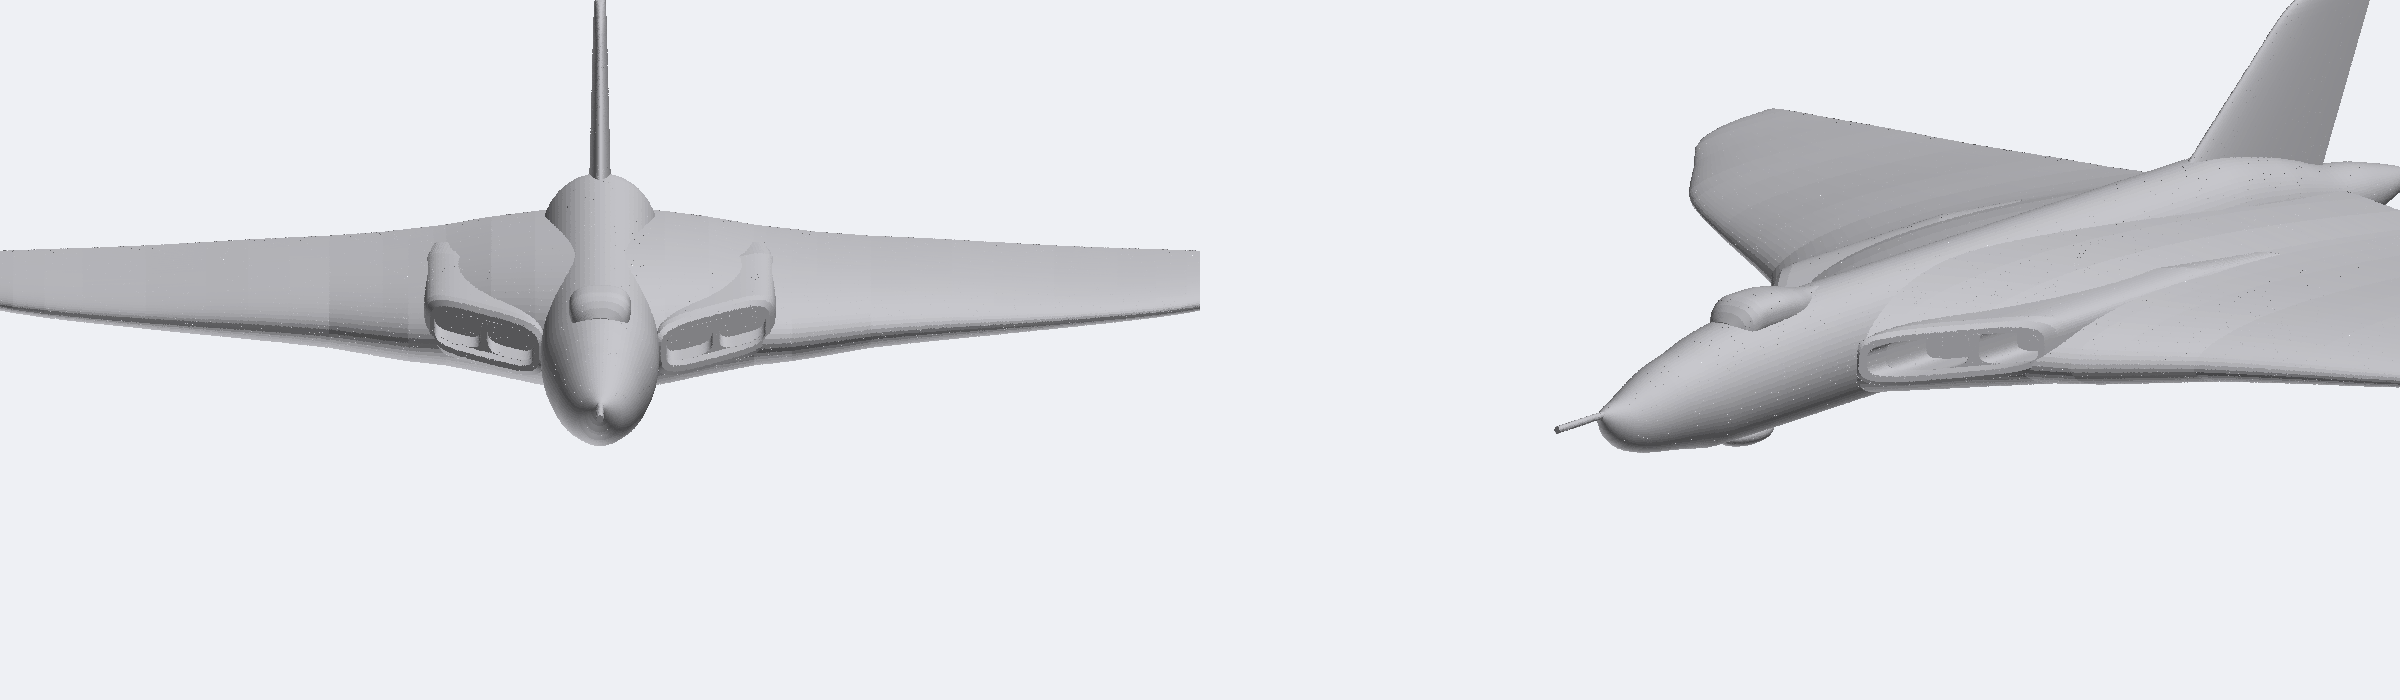
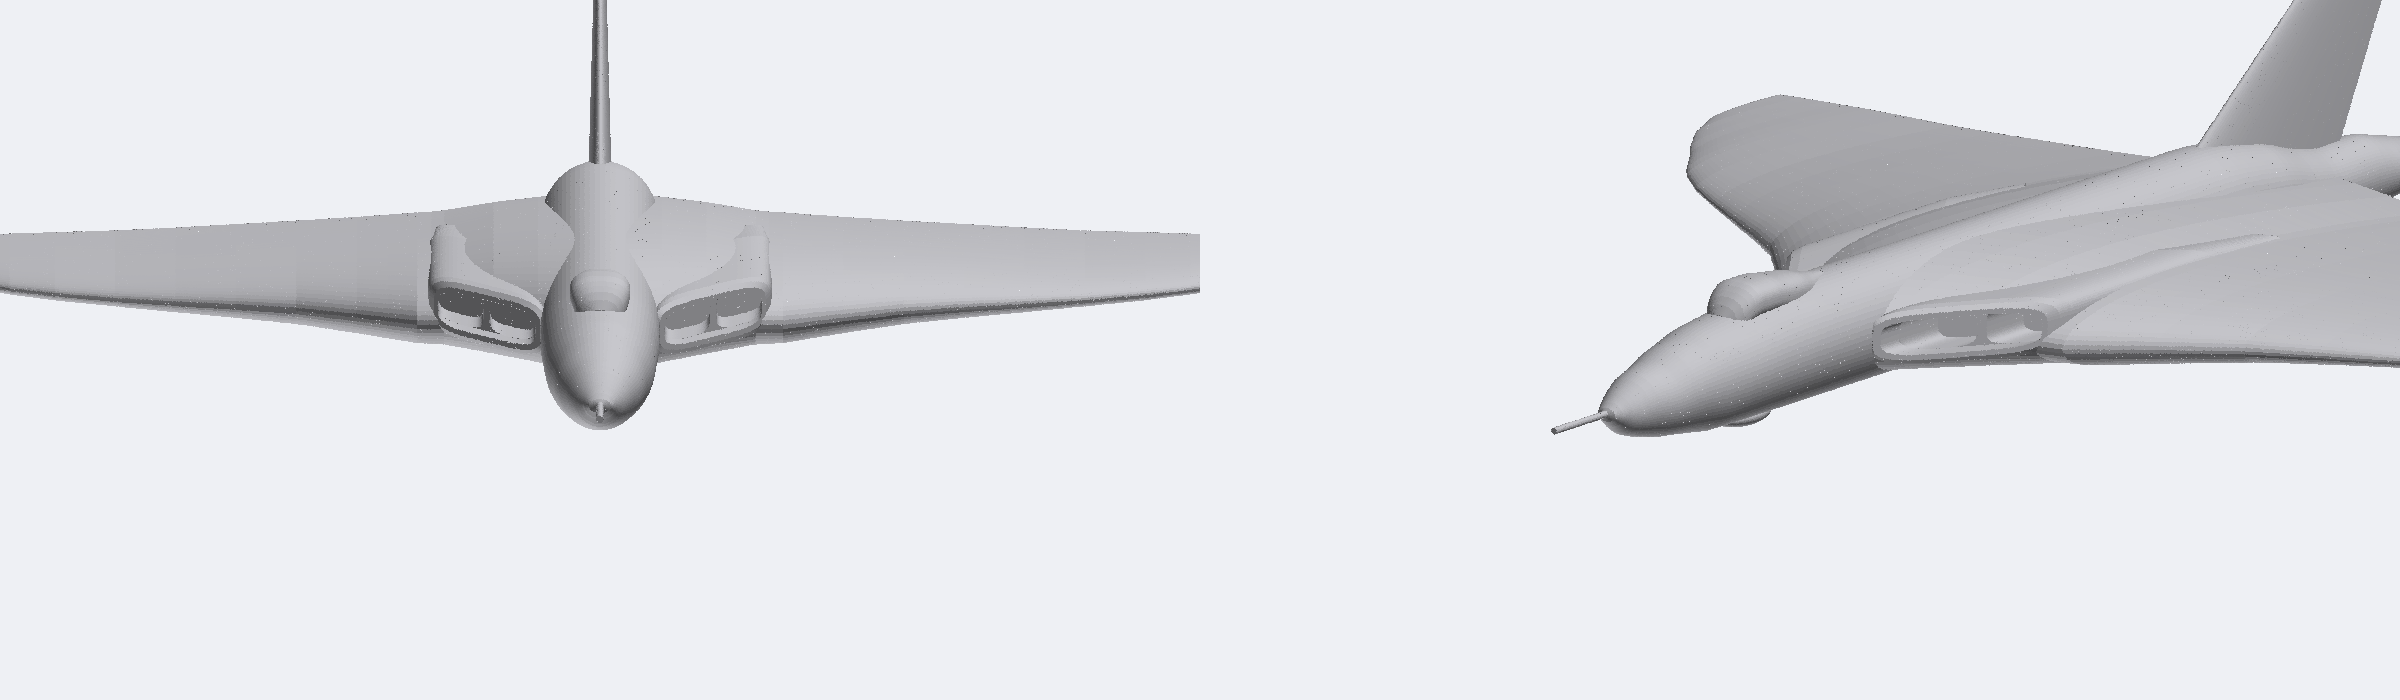
Vulcan v4: shape refitted to the Airfix A12011 plan and side views (422.5 mm long at 1:72)
Claude-Session: https://claude.ai/code/session_01FcEUcZegY5CDPSXLcjAK9B

diff --git a/vulcan/cad/vulcan.py b/vulcan/cad/vulcan.py
@@ -36,87 +36,91 @@ KIT_SCALE = 96.0                # print scale: 352 mm span, about a 1:32 Spitfir
 PRINT_K = SCALE / KIT_SCALE     # 0.75: every part is scaled by this when written out
 _P = 1.0 / PRINT_K              # print-size lengths (fits, pins, walls) are given as printed mm times this
 SPAN = 33830.0 / SCALE          # 469.9 mm at 1:72 (352.4 mm printed)
-LENGTH = 405.0                  # nose tip to the end of the tail cone, no probe (303.8 mm printed):
-                                # 29.16 m. The published 30.45 m includes the probe (both drawings
-                                # and the Airfix kit's size agree; see README)
+LENGTH = 422.5                  # nose tip to the end of the tail cone, no probe (316.9 mm printed):
+                                # 30.42 m, the published 99 ft 11 in (Airfix A12011 plan and side views)
 
-# Fuselage: x, half-width, z top, z bottom, superellipse exponent (z 0 = the nose tip, which
-# sits above the nose's mid-height). From the Commons silhouette: side view for the top and
-# bottom lines, plan view for the widths. The wing's underside is flush with the belly.
+# Fuselage: x, half-width, z top, z bottom, superellipse exponent (z 0 = the nose tip). From
+# the Airfix A12011 painting guide (scheme A): side view for the top and bottom lines, plan
+# view for the widths. A 38 mm tube, centre z 4.35; the wing's underside is flush with its belly.
 FUSE_STATIONS = [
-    (0.0, 0.5, 0.3, -0.9, 2.0),
-    (2.0, 2.6, 1.3, -5.0, 2.0),
-    (5.0, 4.7, 2.2, -9.0, 2.0),
-    (10.2, 7.2, 3.3, -12.9, 2.0),
-    (20.3, 10.5, 6.9, -16.0, 2.0),
-    (30.5, 12.8, 10.4, -17.5, 2.0),
-    (40.6, 14.2, 12.4, -19.0, 2.0),
-    (50.8, 15.7, 15.0, -20.6, 2.0),
-    (60.9, 17.0, 16.5, -20.6, 2.0),
-    (71.0, 17.9, 17.5, -20.6, 2.0),
-    (88.5, 18.3, 18.6, -20.6, 2.0),
-    (105.0, 18.3, 19.0, -20.6, 2.0),
-    (300.0, 18.3, 19.0, -20.6, 2.0),
-    (330.0, 16.5, 14.0, -20.0, 2.0),
-    (345.0, 14.5, 9.5, -19.0, 2.0),
-    (360.0, 12.5, 4.5, -17.8, 2.0),
-    (375.5, 10.5, 2.0, -16.5, 2.0),
-    (385.7, 8.6, -0.5, -14.5, 2.0),
-    (395.9, 5.6, -3.3, -11.9, 2.0),
-    (402.0, 3.2, -5.5, -10.2, 2.0),
-    (LENGTH, 0.8, -7.4, -8.4, 2.0),
+    (0.0, 0.5, 0.5, -0.5, 2.0),
+    (1.0, 3.4, 1.8, -2.6, 2.0),
+    (3.9, 5.3, 3.9, -5.2, 2.0),
+    (7.7, 7.6, 6.3, -8.2, 2.0),
+    (15.5, 10.6, 10.2, -10.5, 2.0),
+    (23.2, 12.6, 12.1, -12.1, 2.0),
+    (30.9, 14.3, 15.0, -13.0, 2.0),
+    (38.7, 15.4, 16.9, -14.0, 2.0),
+    (46.4, 16.7, 18.9, -15.0, 2.0),
+    (54.1, 17.5, 19.8, -15.0, 2.0),
+    (62.8, 17.9, 20.8, -15.0, 2.0),
+    (74.5, 18.4, 22.3, -15.0, 2.0),
+    (86.1, 18.9, 23.2, -15.0, 2.0),
+    (108.0, 18.9, 23.7, -15.0, 2.0),
+    (300.0, 18.9, 23.7, -15.0, 2.0),
+    (330.0, 17.5, 20.0, -15.0, 2.0),
+    (350.0, 15.0, 14.0, -15.0, 2.0),
+    (365.0, 13.0, 11.0, -14.8, 2.0),
+    (383.9, 11.6, 10.5, -14.2, 2.0),
+    (395.5, 11.6, 8.0, -12.9, 2.0),
+    (401.3, 10.6, 6.6, -12.2, 2.0),
+    (407.0, 9.2, 5.2, -11.0, 2.0),
+    (412.9, 6.5, 3.8, -9.6, 2.0),
+    (418.7, 4.0, 1.5, -7.5, 2.0),
+    (LENGTH, 0.8, -2.9, -3.9, 2.0),
 ]
 CANOPY_STATIONS = [             # x, half-width, z top: the small bubble over the flight deck
-    (62.0, 5.0, 17.0), (66.0, 8.5, 21.5), (71.0, 9.5, 23.6), (81.0, 9.5, 23.6),
-    (91.0, 8.5, 22.1), (100.0, 6.0, 20.0), (108.0, 3.0, 19.2),
+    (58.0, 4.0, 20.5), (62.0, 7.5, 25.6), (69.6, 9.5, 29.5), (77.4, 9.5, 29.5),
+    (85.0, 9.0, 28.5), (93.0, 8.0, 27.6), (101.0, 6.0, 25.6), (110.0, 3.0, 24.2),
 ]
 CANOPY_DEPTH = 12.0
 CANOPY_N = 2.5
-BLISTER = (72.0, -20.3, 12.0, 7.0, 4.0)   # bomb aimer's blister: x, z, radii along x, y, z
-PROBE = (21.6, 2.0)             # refuelling probe: length ahead of the nose tip, diameter
+BLISTER = (70.0, -14.6, 12.0, 7.0, 3.5)   # bomb aimer's blister: x, z, radii along x, y, z
+PROBE = (26.0, 2.0)             # refuelling probe: length ahead of the nose tip, diameter
 
-# Wing planform (starboard), from the silhouette's plan view: leading edge (y, x) with the
-# intake notch at y 48-60, the B.2's two kinks (y 90 and 178) and the rounded tip; a nearly
-# straight trailing edge.
-WING_LE = [(0.0, 80.1), (20.3, 109.1), (48.1, 150.3), (59.9, 160.6), (84.6, 191.4), (97.0, 201.7),
-           (123.2, 222.3), (161.8, 253.2), (173.7, 263.5), (183.5, 273.7), (191.2, 284.0),
-           (206.1, 304.6), (222.0, 325.2), (227.7, 335.5), (231.3, 345.8), (233.4, 356.1),
-           (234.4, 366.4), (SPAN / 2, 376.7)]
-WING_TE = (357.6, 67.9, 0.125)  # x at y, dx/dy outboard of it
-WING_TE_INNER = 358.0           # inboard of that y
-WING_TC = [(0.0, 0.14), (30.0, 0.14), (57.0, 0.12), (105.0, 0.11), (152.0, 0.085), (200.0, 0.075), (SPAN / 2, 0.06)]
+# Wing planform (starboard), from the Airfix plan view (the Commons silhouette agrees within
+# about 3 mm): leading edge (y, x) with the intake notch at y 50-58, the B.2's two kinks
+# (y 97 and 180) and the rounded tip; a nearly straight trailing edge.
+WING_LE = [(0.0, 88.3), (19.8, 116.0), (49.8, 157.6), (58.5, 161.5), (77.8, 184.7), (97.2, 205.9),
+           (116.5, 221.4), (135.8, 235.9), (155.2, 250.4), (174.5, 264.9), (189.0, 278.5),
+           (193.9, 284.3), (206.9, 302.6), (213.2, 310.4), (224.3, 326.8), (232.5, 344.2),
+           (233.5, 351.0), (234.6, 365.0), (SPAN / 2, 375.2)]
+WING_TE = (360.7, 58.5, 0.1167)  # x at y, dx/dy outboard of it
+WING_TE_INNER = 360.2           # inboard of that y
+WING_TC = [(0.0, 0.14), (30.0, 0.14), (57.0, 0.12), (105.0, 0.11), (152.0, 0.085), (200.0, 0.075),
+           (SPAN / 2, 0.06)]
 WING_TIP_ROUND = (9.0, 0.0)     # (the tip's rounding is in WING_LE now)
-WING_UNDER_Z = [(0.0, -20.6), (58.0, -20.6), (SPAN / 2, -22.6)]   # (y, z) of each section's lowest
+WING_UNDER_Z = [(0.0, -15.0), (58.0, -15.0), (SPAN / 2, -17.0)]   # (y, z) of each section's lowest
                                 # point: flush with the belly inboard, drooping 2 mm to the tip
 WING_TE_T = 0.9 * _P            # trailing edge thickness (0.9 mm printed)
-WING_Y = [0.0, 10.0, 20.3, 34.0, 48.1, 52.0, 59.9, 67.9, 84.6, 97.0, 110.0, 123.2, 142.0, 161.8,
-          173.7, 183.5, 191.2, 198.5, 206.1, 214.0, 222.0, 227.7, 231.3, 233.4, 234.4, 234.75]
+WING_Y = [0.0, 10.0, 19.8, 34.0, 49.8, 54.0, 58.5, 67.9, 77.8, 97.2, 116.5, 135.8, 155.2, 174.5,
+          189.0, 193.9, 200.0, 206.9, 213.2, 219.0, 224.3, 229.0, 232.5, 233.5, 234.6, 234.8]
 
 # Intakes: letterbox mouths in the swept inner leading edge, one per engine pair, split in two.
 INTAKE_Y = (17.0, 55.0)         # span of the blunt lip fairing
-INTAKE_ZC = -2.0
+INTAKE_ZC = 3.5
 INTAKE_RINGS = [(-1.5, 17.0, 7.6), (1.0, 18.5, 9.0), (6.0, 19.0, 9.5), (80.0, 19.0, 9.5),
                 (120.0, 17.0, 6.0)]   # distance behind the lip line, half-width, half-height
 INTAKE_MOUTH = (20.5, 52.0)     # y range of the one letterbox mouth (head-on photo, 1982)
 INTAKE_MOUTHS = [(20.5, 35.4), (37.1, 52.0)]   # the two ducts behind it, one per engine
 INTAKE_SPLIT = 9.0              # the wall between the ducts starts this far behind the lip
-INTAKE_MOUTH_Z = (-8.0, 4.0)
+INTAKE_MOUTH_Z = (-2.5, 9.5)
 INTAKE_DEPTH = 28.0
 INTAKE_N = 4.0
 
 # Jet pipes: four, in pairs. Their fairings run under the wing from mid-chord (the side
-# view's lowest line, z -25.6) and the nozzles stand 6 mm behind the trailing edge.
-JET_Y = (33.4, 46.3)
-JET_Z = -18.9
-JET_PROFILE = [(195.0, 1.5), (250.0, 6.0), (300.0, 6.7), (364.5, 6.2)]   # x, radius
+# view's lowest line, about 3.5 mm below the belly) and the nozzles stand 6 mm behind the trailing edge.
+JET_Y = (33.4, 45.9)
+JET_Z = -12.3
+JET_PROFILE = [(197.0, 1.5), (252.0, 6.0), (302.0, 6.7), (366.5, 6.2)]   # x, radius
 JET_BORE = (5.1, 10.0)          # radius, depth
 
 # Fin: leading and trailing edge lines (x at z), symmetric section, rounded front top corner.
-FIN_LE = ((294.4, 19.0), (342.3, 58.0))
-FIN_TE = ((360.3, 3.8), (389.3, 63.2))
-FIN_Z = (0.0, 63.7)
+FIN_LE = ((303.6, 23.7), (362.5, 69.0))
+FIN_TE = ((376.0, 11.0), (406.0, 70.6))
+FIN_Z = (5.0, 72.0)
 FIN_TC = (0.08, 0.08)
-FIN_TIP_ROUND = (9.0, 13.0)     # the leading edge rounds into the top over this height, by this much
+FIN_TIP_ROUND = (7.0, 5.0)      # the leading edge rounds into the top over this height, by this much
 
 OUT_DIR = Path(sys.argv[1]) if len(sys.argv) > 1 else Path("out/vulcan")
 

diff --git a/vulcan/README.md b/vulcan/README.md
@@ -1,17 +1,17 @@
 # Avro Vulcan B.2 snap kit
 
-Avro Vulcan B.2 at 1:96: 352 mm span, 317 mm long (334 mm with the refuelling probe), about the span of a 1:32 Spitfire. To be a fully printed, multi-colour snap kit like the Halifax and the Hawk.
+Avro Vulcan B.2 at 1:96: 352 mm span, 317 mm long (336 mm with the refuelling probe), about the span of a 1:32 Spitfire. To be a fully printed, multi-colour snap kit like the Halifax and the Hawk.
 
 ## Brief (agreed 2026-11-13)
 
 - **Scale:** 1:96, chosen for a span close to the user's 1:32 Spitfire kit (351 mm if that kit is 1:32: its file is not in this repo, so the figure is from the real span, 11.23 m). The shape is built at 1:72 (`SCALE`) and scaled by `PRINT_K` 0.75 on output.
-- **Two print files:** anti-flash white, and XH558's camouflage (grey and green over light grey; check every detail against photos).
+- **Two print files:** anti-flash white (Airfix scheme B, XM602, 1963), and camouflage. For the camouflage, to be agreed: XM594 in 1966 (Airfix scheme A: grey and green on top only, white underneath, Blue Steel) or XH558 (camouflage wrapped round the underside).
 - **Display:** stand with the wheels up, and gear down, both in the kit; a bomb bay that can be built open, with a Blue Steel missile as an alternative load.
 - **For MakerWorld:** a single-colour version for printers without an AMS; plates that fit 256 mm beds; no supports, no glue.
 
 ![shape in grey](docs/shape_grey.png)
 
-> **Status: v3, outer shape only.** One solid in the assembled frame, fitted to the Commons silhouette. Not yet split into parts; no joints, colour or print file.
+> **Status: v4, outer shape only.** One solid in the assembled frame, fitted to the Airfix A12011 plan and side views. Not yet split into parts; no joints, colour or print file.
 
 Intakes (v3): one letterbox mouth a side with the wall between the two engine ducts set back 9 mm, after the 1982 head-on photo. Still to do: the lip fairing's outer end stands proud of the wing as a small ear, and there is no splitter plate at the fuselage.
 
@@ -29,16 +29,16 @@ Intakes (v3): one letterbox mouth a side with the wall between the two engine du
 
 ## Shape and references
 
-- **Main drawing:** the Wikimedia Commons silhouette "Avro Vulcan B.2 three-view silhouette.png" (1920 px, about 0.51 mm per pixel at 1:72), calibrated in `tools/refs.json` (`plan`, `side`, `front`). The outline sits on it in plan and side view. Its head-on view is drawn about 12% taller than its side view, so use it for spans only.
-- **Second source:** the aerospaceweb.org 3-view (`aw_plan`, 1.5 mm per pixel). It agrees on the planform.
-- **Length:** the published 99 ft 11 in (30.45 m) includes the refuelling probe. Both drawings give nose tip to tail cone as 0.86 of the span (29.2 m), and the Airfix 1:72 kit is 426 mm long overall. The model is 405 mm at 1:72 without the probe, 426.6 mm with it.
-- **Check:** the model's wing area is 365.5 m², against the real 368.3 m² (0.8% low).
-- **Photos (in `ref/vulcan/`, not in git):** XH558 from below with the bomb bay open (camouflage wraps round the underside; jet pipe fairings, gear doors, bomb bay), a head-on photo from 1982 (intakes, nose, probe), and model photos from aircraftinplastic.com (underside detail in white).
-- The trailing edge is the outermost line of a plan view. The line inboard of it is the elevon hinge line (the first trace took it for the trailing edge and the area came out 13% low).
+- **Main drawings:** the Airfix A12011 painting guide, scheme A (XM594, Scampton 1966): flat upper plan, underside plan and both side views, with panel lines, at about 0.97 mm per pixel at 1:72 (a screenshot; a sharper copy would help). Calibrated in `tools/refs.json` as `plan` and `side`. The outline sits on both.
+- **Other sources:** the Commons silhouette (`sil_plan`, `sil_front`; sharper, 0.51 mm per pixel, and its wing agrees within about 3 mm, but its tail cone is 17 mm short) and the aerospaceweb.org 3-view (`aw_plan`).
+- **Length:** 422.5 mm at 1:72 from nose tip to tail cone: the published 99 ft 11 in (30.45 m), without the probe. With the probe 448.5 mm (32.3 m; published 105 ft 6 in).
+- **Check:** the model's wing area is 367.4 m², against the real 368.3 m².
+- **Photos (in `ref/vulcan/`, not in git):** XH558 from below with the bomb bay open (camouflage wraps round the underside), a head-on photo from 1982 (intakes, nose, probe), a top view of a camouflaged Vulcan on a runway (2024, airframe not identified), XH558's fin (fin flash without white, Union flag, shield, serial, fin cap, jet pipes), and model photos from aircraftinplastic.com.
+- The trailing edge is the outermost line of a plan view. The line inboard of it is the elevon hinge line.
 
 ## Known gaps and next steps
 
-1. Still wanted: a line drawing with panel lines and sections (the Commons vector 3-view "Avro Vulcan B.2 3-view line drawing.svg", or the Airfix A12011 instruction sheets), and a straight-down photo of XH558's upper camouflage. Commons rate-limits the cloud session, and Scalemates and vulcantothesky.org refuse automated access: the user uploads these.
+1. Still wanted: sharper copies of the Airfix A12011 painting guides (scheme A, and scheme B: XM602 in anti-flash white, 1963, which the user showed in chat but which did not reach the disk), and for XH558 a straight-down view of its upper camouflage.
 2. Shape still to do: the fin root fillet and fin cap, the drooped outer leading edge, the nose gear and main gear bays, the bomb bay, the ECM plate between the starboard jet pipes, the terrain-following radar thimble on the nose.
 3. The wing's height on the fuselage, its root thickness and the intake lips come from a silhouette and one head-on photo: check them against more photos. The intakes are plain slots so far (the real lips are rounded, with a splitter plate at the fuselage).
 4. Agree the brief (markings, display, colours per plate), then split into parts, add joints, colour and the 3MF.

diff --git a/LESSONS.md b/LESSONS.md
@@ -477,7 +477,7 @@ Thin white markings from the X2D's second nozzle came out rough. Thicker layers 
 
 - **A cloud session can do the shape work.** `uv venv --python 3.12 .venv` and `requirements.txt` install in about a minute. What it lacks is Bambu Studio (no slicing) and `ref/`: the user uploads references in chat, and they go straight into `ref/<aircraft>/`.
 - **Reference sites often refuse automated downloads.** Wikimedia Commons rate-limited the shared address, and Scalemates and vulcantothesky.org turn bots away (the latter names AI agents in `robots.txt`). Don't work round that: ask the user to download the file.
-- **Check what a published length includes.** The Vulcan's 30.45 m includes the refuelling probe. Taking it as nose to tail stretched the fuselage 4%, and the first calibration hid that by giving the drawing's two axes different scales. Two drawings that agree on length over span, and a kit's overall size, outweigh a spec table.
-- **Wing area is a strong check on a planform.** It came out 13% low when an elevon hinge line was traced as the trailing edge, and within 1% once the planform was right.
+- **Don't settle a dimension on two drawings that may share a source.** Two public silhouettes both drew the Vulcan 405 mm long at 1:72 (nose to tail cone), and I took the published 30.45 m to include the probe. The Airfix painting guide (from their scanned kit) gave 422.5 mm, which is 30.45 m without the probe and 32.3 m with it, as published. The silhouettes had the wing right and the tail cone 17 mm short. A kit maker's flat views outrank hobby silhouettes; ask for them first.
+- **Wing area is a strong check on a planform.** It came out 13% low when an elevon hinge line was traced as the trailing edge, and within 1% once the planform was right (0.25% on the Airfix plan). It does not check the fuselage: the short tail cone passed it.
 - **A silhouette sheet traces by machine.** Row and column extents of a black silhouette give the leading edge, trailing edge and body lines directly, with no hand reading (`common/tools/silhouette.py` does the same for shaded drawings). Views on one sheet still need their own scales: the head-on view was 12% taller than the side view.
 - **Ruled lofts as point rings in manifold3d** (`ring_loft` in `vulcan/cad/vulcan.py`) need no CadQuery: the whole airframe builds in about 10 s, and sheared rings make a fairing along a swept edge (the intake lips).
